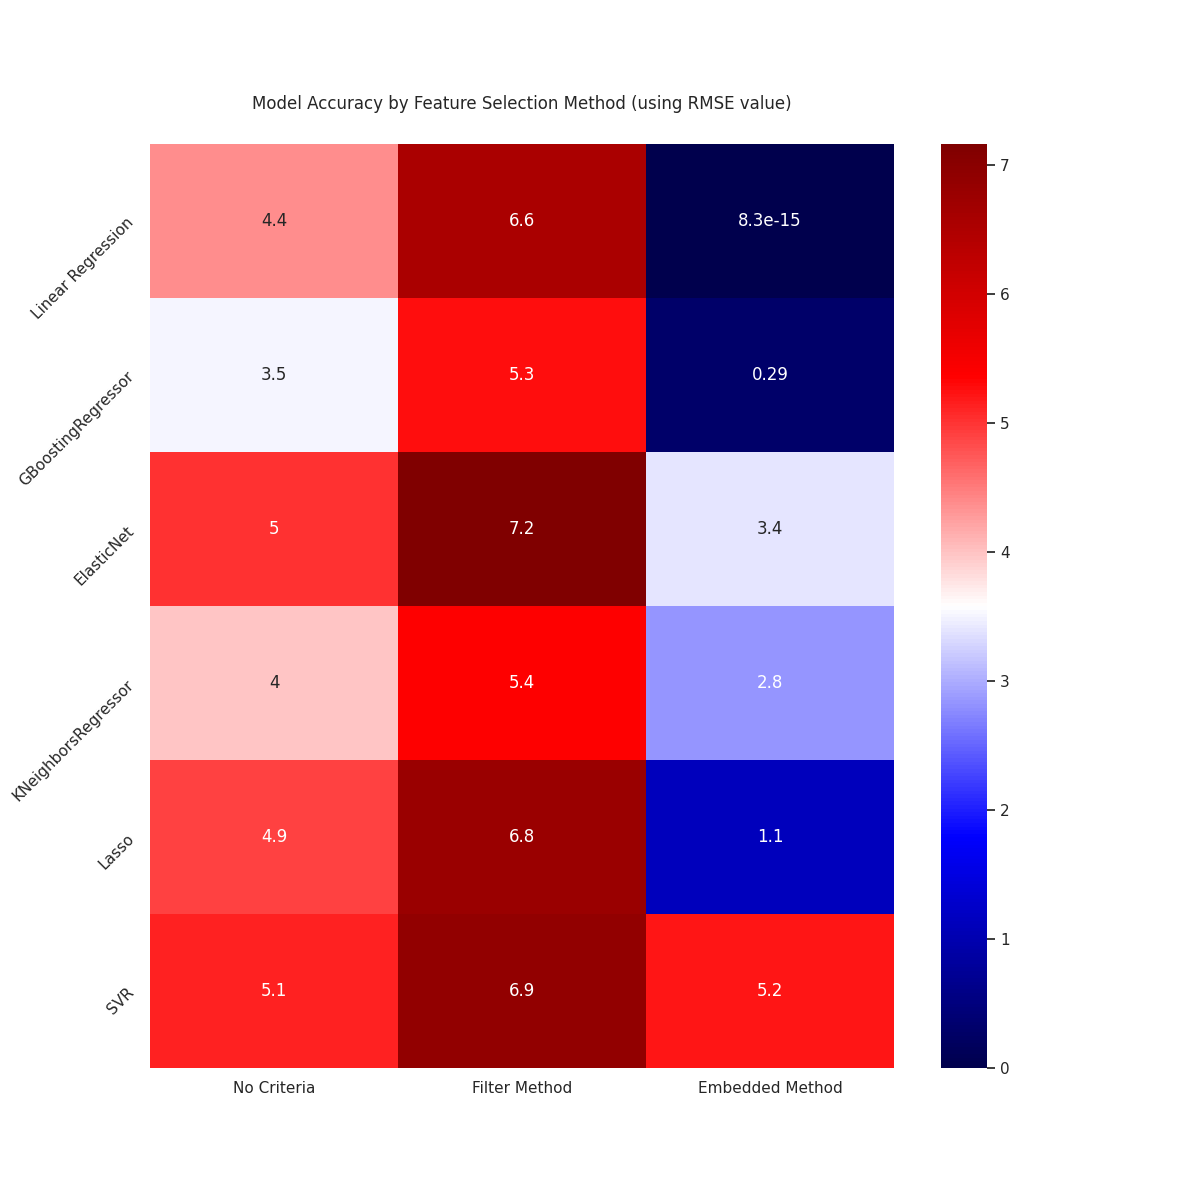
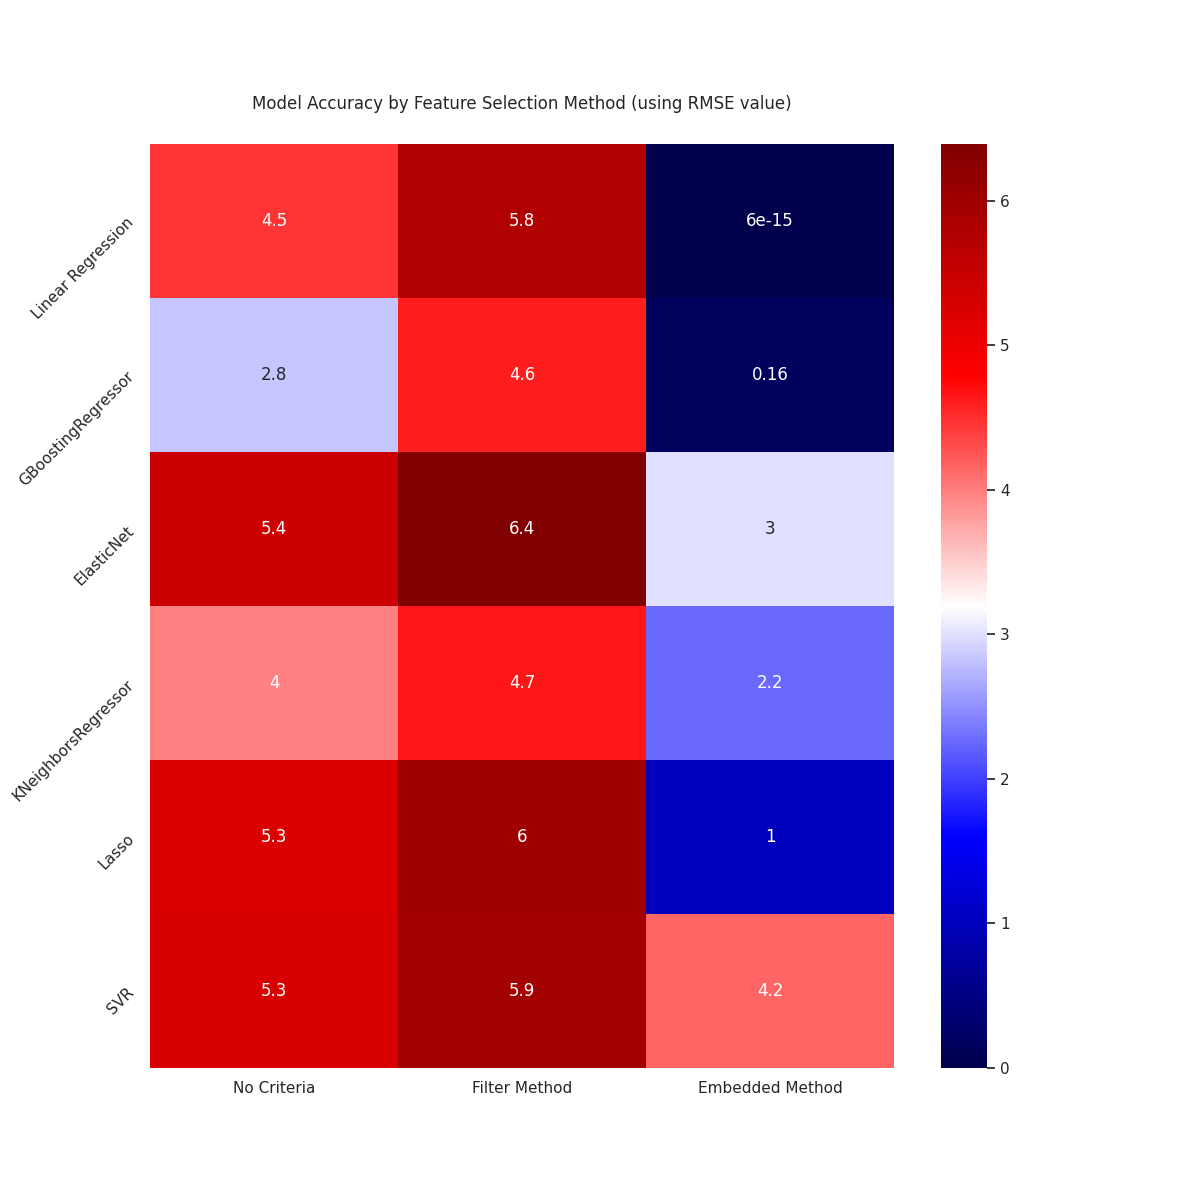
- Functionally restructured code - Modified housing data correlation table visualization code and uploaded resulting image - Set random_state for test and training data

diff --git a/Median_Value_Prediction.py b/Median_Value_Prediction.py
@@ -19,170 +19,184 @@ from sklearn.neighbors import KNeighborsRegressor
 
 from sklearn.linear_model import LassoCV  # Select features using Embedded
 
-parser = ArgumentParser()
-parser.add_argument("figure_directory", nargs='?', default=os.getcwd(),
-                    help="Directory to save output images. "
-                         "Default: current working directory")
-args = parser.parse_args()
 
 def load_data():
+    """Return housing data loaded from file"""
     return pd.read_csv(f'{os.getcwd()}/data/housing.data', sep='\s+', header=None)
 
-def prepare_data():
-    housing_data.columns = ['CRIM', 'ZN', 'INDUS', 'CHAS', 'NOX', 'RM', 'AGE',
-                            'DIS', 'RAD', 'TAX', 'PTRATIO', 'B', 'LSTAT', 'MEDV']
 
-    print(f'\nNull values for data are:{housing_data.isnull().sum()}\n')
+def prepare_data(housing_dat):
+    """Globally adds column names to housing dataframe and outputs null value sums."""
+    housing_dat.columns = ['CRIM', 'ZN', 'INDUS', 'CHAS', 'NOX', 'RM', 'AGE',
+                           'DIS', 'RAD', 'TAX', 'PTRATIO', 'B', 'LSTAT', 'MEDV']
 
-
-#####################################################
-##    Data loading and Preparation                 ##
-#####################################################
-
-housing_data = load_data()
-prepare_data()
-
-RMSE_values = np.zeros((6, 3), dtype=float)  # Will store RMSE values for each feature selection
-                                             # method.
-
-#####################################################
-##    Feature Selection Method 1: No criteria      ##
-#####################################################
-X = housing_data.drop('MEDV', axis=1)  # Select all features and copy to X
-y = housing_data['MEDV']  # Copy median house values (target) to y
-
-# Scale data
-scaler = StandardScaler()
-scaler.fit(X)
-scaled_features = scaler.transform(X)
-
-# Split data for training
-X_train, X_test, y_train, y_test = train_test_split(scaled_features, y, test_size=0.35,
-                                                    shuffle=True)
-# Train models using method 1 and place RMSE result in RMSE_values
-RMSE_idx = 0
-for Model in [LinearRegression, GradientBoostingRegressor, ElasticNet, KNeighborsRegressor, Lasso, SVR]:
-    model = Model()
-    model.fit(X_train, y_train)
-    predicted_values = model.predict(X_test)
-    RMSE_values[RMSE_idx, 0] = np.sqrt(metrics.mean_squared_error(y_test, predicted_values))
-    RMSE_idx += 1
-
-#####################################################
-##    Feature Selection Method 2: Filter Method    ##
-#####################################################
-
-# Create correlation table for data
-corr_table = pd.DataFrame(data=housing_data.corr(),
-                          columns=housing_data.columns)
-
-# Create heatmap of correlation data and save image
-sns.set()
-fig, ax = plt.subplots(figsize=(12, 12))
-sns.heatmap(corr_table, annot=True, cmap='autumn')
-ax.set_xticklabels(housing_data.columns, rotation=45)
-ax.set_yticklabels(housing_data.columns, rotation=45)
-plt.title('Correlation map for Boston Housing Data', pad=25)
-
-if (args.figure_directory == os.getcwd()):
-    os.makedirs(f'{args.figure_directory}/figures', exist_ok=True)
-    plt.savefig(f'{args.figure_directory}/figures/whole_corr_plot.png', format='png')
-else:
-    os.makedirs(f'{args.figure_directory}', exist_ok=True)
-    plt.savefig(f'{args.figure_directory}/whole_corr_plot.png', format='png')
+    print(f'\nNull values for data are:{housing_dat.isnull().sum()}\n')
+    return housing_dat
 
 
-# Determine features which correlate highly with median house value
-corr_y = abs(corr_table["MEDV"])
-high_corr_features = corr_y[corr_y > 0.5]
-
-# Determine correlations between features that have a high corr with MEDV and drop
-print(f"\nFilter Method:\n\nCorrelation between features that have a high corr with MEDV:\n")
-print(f"{housing_data[['RM', 'LSTAT']].corr()}\n\n{housing_data[['LSTAT', 'PTRATIO']].corr()}")
-print(f'\nRM will be removed accordingly\n\n')
-
-# Ignore RM, select LSTAT and PTRATIO features only
-X = housing_data[['LSTAT', 'PTRATIO']]
-y = housing_data['MEDV']
-
-# Scale data
-scaler = StandardScaler()
-scaler.fit(X)
-scaled_features = scaler.transform(X)
-
-X_train, X_test, y_train, y_test = train_test_split(scaled_features, y, test_size=0.35,
-
-                                                    shuffle=True)
-# Train models using method 2 and place RMSE result in RMSE_values
-RMSE_idx = 0
-for Model in [LinearRegression, GradientBoostingRegressor, ElasticNet, KNeighborsRegressor, Lasso, SVR]:
-    model = Model()
-    model.fit(X_train, y_train)
-    predicted_values = model.predict(X_test)
-    RMSE_values[RMSE_idx, 1] = np.sqrt(metrics.mean_squared_error(y_test, predicted_values))
-    RMSE_idx += 1
-
-#####################################################
-##    Feature Selection Method 3: Embedded Method  ##
-#####################################################
-
-X = housing_data.drop('MEDV', axis=1)  # Select all features and copy to X
-y = housing_data['MEDV']  # Copy median house values (target) to y
-
-# Determine which features relate most weakly to MEDV prediction (coefficients --> ~0)
-reg = LassoCV()
-reg.fit(X, y)
-coef = pd.Series(reg.coef_, index=X.columns)
-
-sns.set()
-ax = plt.subplots(figsize=(12, 12))
-sns.barplot(x=X.columns, y=coef)
-plt.xticks(rotation=45)
-plt.title('Embedded Method: Coefficient values by housing data feature', pad=25)
-if (args.figure_directory == os.getcwd()):
-
-    plt.savefig(f'{args.figure_directory}/figures/embed_method_coeffs.png', format='png')
-else:
-    plt.savefig(f'{args.figure_directory}/embed_method_coeffs.png', format='png')
+def save_plot(workdir, filename, create_workdir=False):
+    """Accepts workdir specified as argument to main script and filename
+    - saves plot to disk."""
+    if create_workdir:
+        if workdir == os.getcwd():
+            os.makedirs(f'{workdir}/figures', exist_ok=True)
+            plt.savefig(f'{workdir}/figures/{filename}', format='png')
+        else:
+            os.makedirs(f'{workdir}', exist_ok=True)
+            plt.savefig(f'{workdir}/{filename}', format='png')
+    else:
+        if workdir == os.getcwd():
+            plt.savefig(f'{workdir}/figures/{filename}', format='png')
+        else:
+            plt.savefig(f'{workdir}/{filename}', format='png')
 
 
-
-# Drop features with zero value coefficients
-X = housing_data.drop(['NOX', 'INDUS', 'CHAS'], axis=1)
-y = housing_data['MEDV']
-
-# Scale features
-scaler = StandardScaler()
-scaler.fit(X)
-scaled_features = scaler.transform(X)
-
-# Split data for training
-X_train, X_test, y_train, y_test = train_test_split(scaled_features, y, test_size=0.35,
-                                                    shuffle=True)
-# Train models using method 3 and place RMSE result in RMSE_values
-RMSE_idx = 0
-for Model in [LinearRegression, GradientBoostingRegressor, ElasticNet, KNeighborsRegressor, Lasso, SVR]:
-    model = Model()
-    model.fit(X_train, y_train)
-    predicted_values = model.predict(X_test)
-    RMSE_values[RMSE_idx, 2] = np.sqrt(metrics.mean_squared_error(y_test, predicted_values))
-    RMSE_idx += 1
-
-RMSE_df = pd.DataFrame(data=RMSE_values, index=['Linear Regression', 'GBoostingRegressor', 'ElasticNet',
-                                                'KNeighborsRegressor', 'Lasso', 'SVR'])
-RMSE_df.columns = ['No Criteria', 'Filter Method', 'Embedded Method']
-
-print(f'All feature selection methods have been applied.\n\nRMSE table:\n\n{RMSE_df.to_string()}\n')
-
-fig, ax = plt.subplots(figsize=(12, 12))
-sns.heatmap(RMSE_df, annot=True, cmap='seismic')
-ax.set_xticklabels(RMSE_df.columns)
-ax.set_yticklabels(RMSE_df.index, rotation=45)
-plt.title('Model Accuracy by Feature Selection Method (using RMSE value)', pad=25)
-
-if (args.figure_directory == os.getcwd()):
-    plt.savefig(f'{args.figure_directory}/figures/RMSE_heatmap.png', format='png')
-else:
-    plt.savefig(f'{args.figure_directory}/RMSE_heatmap.png', format='png')
+def scale_data(x):
+    """Accepts features data, computes and applies scaling transformation.
+    Returns scaled features"""
+    scaler = StandardScaler()
+    scaler.fit(x)
+    return scaler.transform(x)
 
 
+def main():
+    parser = ArgumentParser()
+    parser.add_argument("figure_directory", nargs='?', default=os.getcwd(),
+                        help="Directory to save output images. "
+                             "Default: current working directory")
+    args = parser.parse_args()
+
+    #####################################################
+    ##    Data loading and Preparation                 ##
+    #####################################################
+
+    housing_data = load_data()
+    housing_data = prepare_data(housing_data)
+
+    rmse_values = np.zeros((6, 3), dtype=float)  # Will store RMSE values for each feature selection
+    # method.
+
+    #####################################################
+    ##    Feature Selection Method 1: No criteria      ##
+    #####################################################
+    X = housing_data.drop('MEDV', axis=1)  # Select all features and copy to X
+    y = housing_data['MEDV']  # Copy median house values (target) to y
+
+    # Scale data
+    scaled_features = scale_data(X)
+
+    # Split data for training
+    X_train, X_test, y_train, y_test = train_test_split(scaled_features, y, test_size=0.35,
+                                                        shuffle=True, random_state=1)
+    # Train models using method 1 and place RMSE result in RMSE_values
+    rmse_idx = 0
+    for Model in [LinearRegression, GradientBoostingRegressor, ElasticNet, KNeighborsRegressor, Lasso, SVR]:
+        model = Model()
+        model.fit(X_train, y_train)
+        predicted_values = model.predict(X_test)
+        rmse_values[rmse_idx, 0] = np.sqrt(metrics.mean_squared_error(y_test, predicted_values))
+        rmse_idx += 1
+
+    #####################################################
+    ##    Feature Selection Method 2: Filter Method    ##
+    #####################################################
+
+    # Create correlation table for data
+    corr_table = pd.DataFrame(data=housing_data.corr(),
+                              columns=housing_data.columns)
+    corr_table_tril = corr_table.corr().where(np.tril(np.ones(corr_table.corr().shape)).astype(np.bool))
+
+    # Create heatmap of correlation data and save image
+    sns.set()
+    fig, ax = plt.subplots(figsize=(12, 12))
+    sns.heatmap(corr_table_tril, annot=True, cmap='autumn')
+    ax.set_xticklabels(housing_data.columns, rotation=45)
+    ax.set_yticklabels(housing_data.columns, rotation=45)
+    plt.title('Correlation map for Boston Housing Data', pad=25)
+
+    save_plot(args.figure_directory, 'whole_corr_plot.png', create_workdir=True)
+
+    # Determine features which correlate highly with median house value
+    corr_y = abs(corr_table["MEDV"])
+    high_corr_features = corr_y[corr_y > 0.5]
+
+    # Determine correlations between features that have a high corr with MEDV and drop
+    print(f"\nFilter Method:\n\nCorrelation between features that have a high corr with MEDV:\n")
+    print(f"{housing_data[['RM', 'LSTAT']].corr()}\n\n{housing_data[['LSTAT', 'PTRATIO']].corr()}")
+    print(f'\nRM will be removed accordingly\n\n')
+
+    # Ignore RM, select LSTAT and PTRATIO features only
+    X = housing_data[['LSTAT', 'PTRATIO']]
+    y = housing_data['MEDV']
+
+    # Scale data
+    scaled_features = scale_data(X)
+
+    X_train, X_test, y_train, y_test = train_test_split(scaled_features, y, test_size=0.35,
+
+                                                        shuffle=True, random_state=1)
+    # Train models using method 2 and place RMSE result in RMSE_values
+    rmse_idx = 0
+    for Model in [LinearRegression, GradientBoostingRegressor, ElasticNet, KNeighborsRegressor, Lasso, SVR]:
+        model = Model()
+        model.fit(X_train, y_train)
+        predicted_values = model.predict(X_test)
+        rmse_values[rmse_idx, 1] = np.sqrt(metrics.mean_squared_error(y_test, predicted_values))
+        rmse_idx += 1
+
+    #####################################################
+    ##    Feature Selection Method 3: Embedded Method  ##
+    #####################################################
+
+    X = housing_data.drop('MEDV', axis=1)  # Select all features and copy to X
+    y = housing_data['MEDV']  # Copy median house values (target) to y
+
+    # Determine which features relate most weakly to MEDV prediction (coefficients --> ~0)
+    reg = LassoCV()
+    reg.fit(X, y)
+    coef = pd.Series(reg.coef_, index=X.columns)
+
+    sns.set()
+    plt.subplots(figsize=(12, 12))
+    sns.barplot(x=X.columns, y=coef)
+    plt.xticks(rotation=45)
+    plt.title('Embedded Method: Coefficient values by housing data feature', pad=25)
+
+    save_plot(args.figure_directory, 'embed_method_coeffs.png')
+
+    # Drop features with zero value coefficients
+    X = housing_data.drop(['NOX', 'INDUS', 'CHAS'], axis=1)
+    y = housing_data['MEDV']
+
+    # Scale features
+    scaled_features = scale_data(X)
+
+    # Split data for training
+    X_train, X_test, y_train, y_test = train_test_split(scaled_features, y, test_size=0.35,
+                                                        shuffle=True, random_state=1)
+    # Train models using method 3 and place RMSE result in RMSE_values
+    rmse_idx = 0
+    for Model in [LinearRegression, GradientBoostingRegressor, ElasticNet, KNeighborsRegressor, Lasso, SVR]:
+        model = Model()
+        model.fit(X_train, y_train)
+        predicted_values = model.predict(X_test)
+        rmse_values[rmse_idx, 2] = np.sqrt(metrics.mean_squared_error(y_test, predicted_values))
+        rmse_idx += 1
+
+    rmse_df = pd.DataFrame(data=rmse_values, index=['Linear Regression', 'GBoostingRegressor', 'ElasticNet',
+                                                    'KNeighborsRegressor', 'Lasso', 'SVR'])
+    rmse_df.columns = ['No Criteria', 'Filter Method', 'Embedded Method']
+
+    print(f'All feature selection methods have been applied.\n\nRMSE table:\n\n{rmse_df.to_string()}\n')
+
+    fig, ax = plt.subplots(figsize=(12, 12))
+    sns.heatmap(rmse_df, annot=True, cmap='seismic')
+    ax.set_xticklabels(rmse_df.columns)
+    ax.set_yticklabels(rmse_df.index, rotation=45)
+    plt.title('Model Accuracy by Feature Selection Method (using RMSE value)', pad=25)
+
+    save_plot(args.figure_directory, 'RMSE_heatmap.png')
+
+
+if __name__ == "__main__":
+    main()
